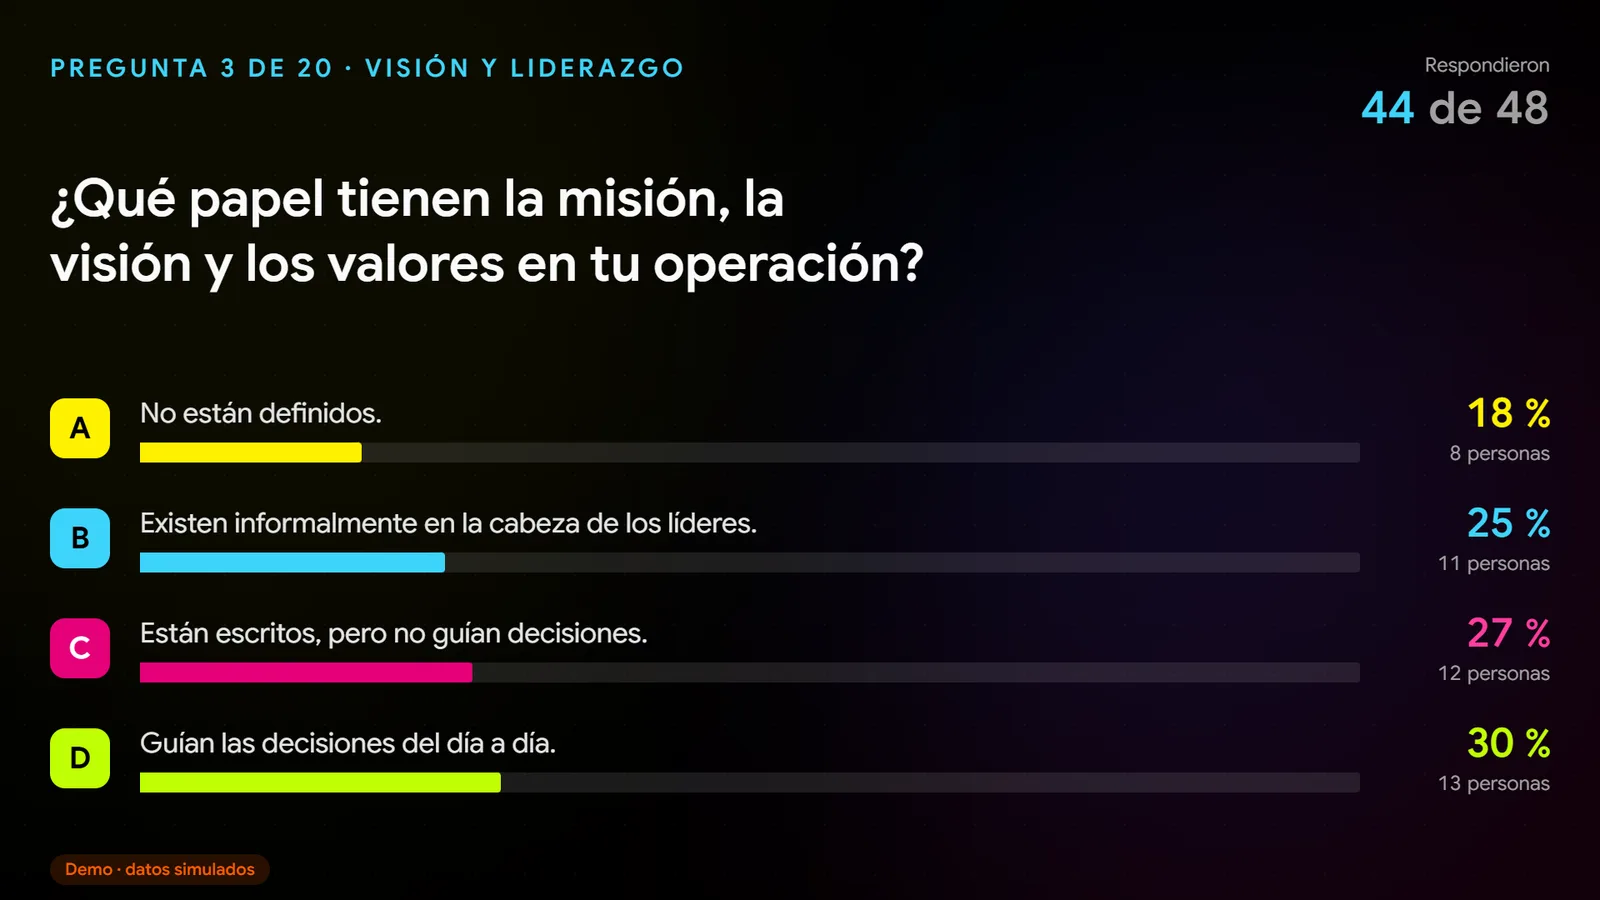
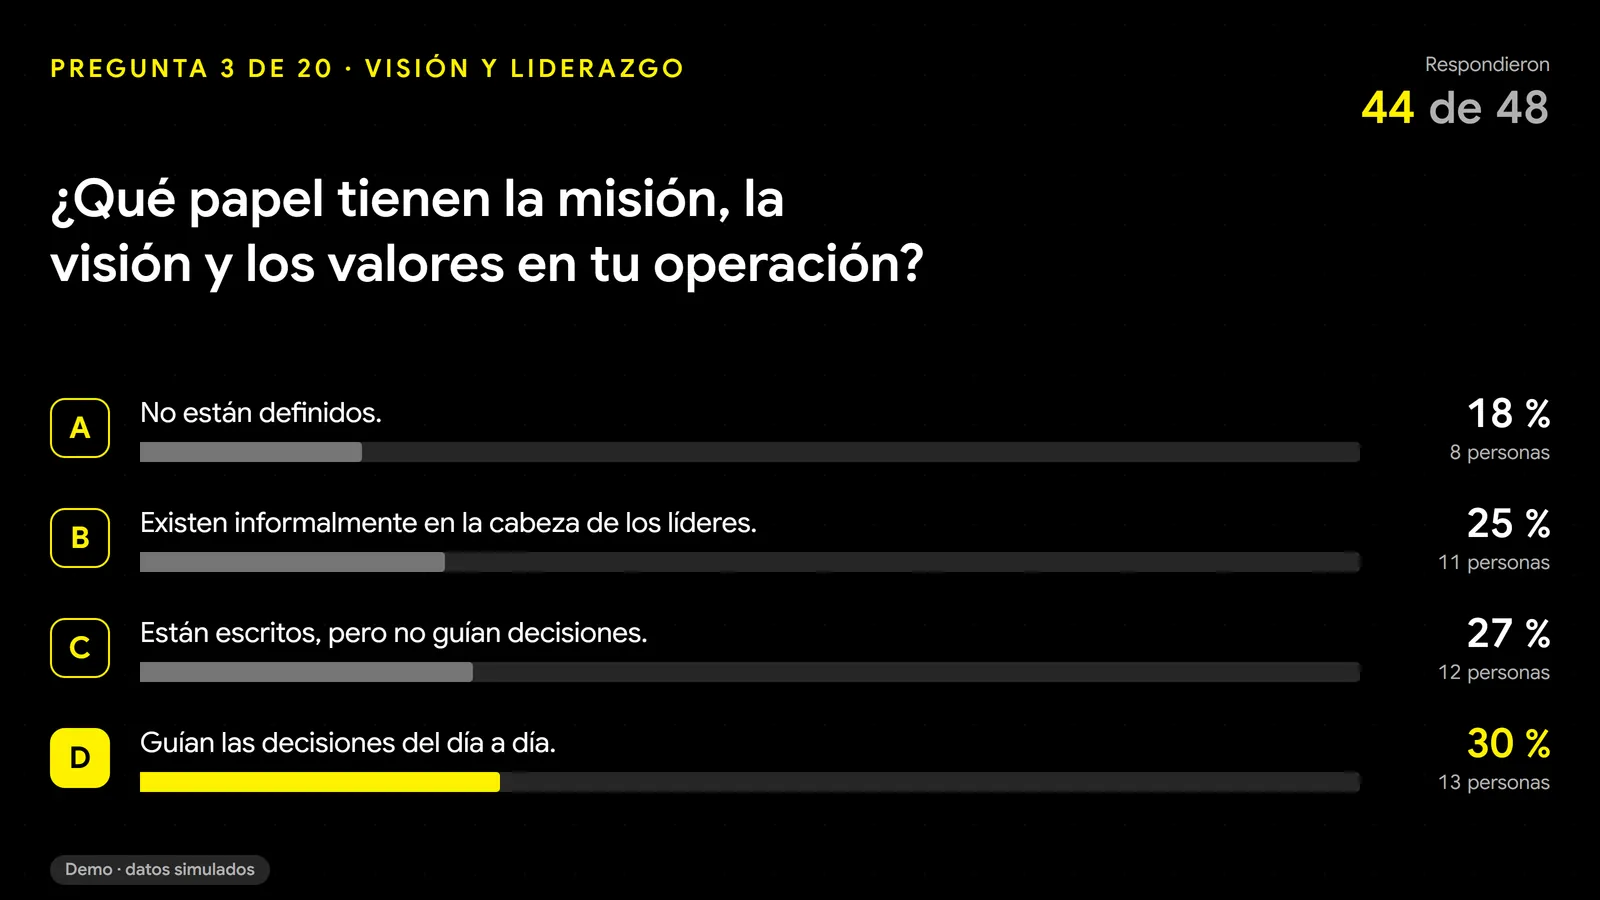
feat(projects): retake the Appolo workshop screenshots in its current design
The four captures showed the workshop's earlier palette; the app now
uses Appolo's yellow and black. They were retaken from a frontend-only
build with the demo's sample data and mocked API answers, and keep their
file names because Google has already crawled those URLs. Two new views
join them: a section's closing average and the host panel on a phone.
The live question goes first: it becomes the card image, and its large
question and bars still read at card size.

diff --git a/src/content/projects/workshop-web.ts b/src/content/projects/workshop-web.ts
@@ -100,24 +100,24 @@ export const workshopWeb: Project = {
   integrations: ["Supabase Realtime", "n8n", "WhatsApp"],
   images: [
     {
-      src: "/images/projects/workshop-web/room-results.webp",
+      src: "/images/projects/workshop-web/live-question.webp",
       alt: {
-        es: "Resultados de la sala en la pantalla proyectada con datos de ejemplo: promedio por sección, etapa de las empresas, principales cuellos de botella, agenda predominante, porcentajes de leads en chats y de empresas listas para automatizar, y nube de palabras.",
-        en: "Room results on the projected screen with sample data: average per section, company stage, top bottlenecks, most common scheduling method, the share with leads in chats and the share ready to automate, and a word cloud.",
-        pt: "Resultados da sala na tela projetada com dados de exemplo: média por seção, estágio das empresas, principais gargalos, agenda predominante, percentuais de leads em chats e de empresas prontas para automatizar, e nuvem de palavras.",
-        fr: "Résultats de la salle sur l'écran projeté avec des données d'exemple : moyenne par section, stade des entreprises, principaux goulots d'étranglement, agenda dominant, pourcentages de leads dans les chats et d'entreprises prêtes à automatiser, et nuage de mots.",
+        es: "Pregunta en vivo en la pantalla proyectada con datos de ejemplo: el texto de la pregunta, cuatro opciones con barras, porcentaje y número de personas, la opción más elegida resaltada y el contador de quienes ya respondieron.",
+        en: "Live question on the projected screen with sample data: the question text, four options with bars, percentages and head counts, the most chosen option highlighted, and a counter of who has already answered.",
+        pt: "Pergunta ao vivo na tela projetada com dados de exemplo: o texto da pergunta, quatro opções com barras, percentual e número de pessoas, a opção mais escolhida em destaque e o contador de quem já respondeu.",
+        fr: "Question en direct sur l'écran projeté avec des données d'exemple : l'énoncé de la question, quatre options avec barres, pourcentage et nombre de personnes, l'option la plus choisie mise en avant et le compteur de ceux qui ont déjà répondu.",
       },
       width: 1600,
       height: 900,
       viewport: "desktop",
     },
     {
-      src: "/images/projects/workshop-web/live-question.webp",
+      src: "/images/projects/workshop-web/room-results.webp",
       alt: {
-        es: "Pregunta en vivo en la pantalla proyectada con datos de ejemplo: el texto de la pregunta, cuatro opciones con barras, porcentaje y número de personas, y el contador de quienes ya respondieron.",
-        en: "Live question on the projected screen with sample data: the question text, four options with bars, percentages and head counts, and a counter of who has already answered.",
-        pt: "Pergunta ao vivo na tela projetada com dados de exemplo: o texto da pergunta, quatro opções com barras, percentual e número de pessoas, e o contador de quem já respondeu.",
-        fr: "Question en direct sur l'écran projeté avec des données d'exemple : l'énoncé de la question, quatre options avec barres, pourcentage et nombre de personnes, et le compteur de ceux qui ont déjà répondu.",
+        es: "Resultados de la sala en la pantalla proyectada con datos de ejemplo: promedio por sección, etapa de las empresas, principales cuellos de botella, agenda predominante, porcentajes de leads en chats y de empresas listas para automatizar, y nube de palabras.",
+        en: "Room results on the projected screen with sample data: average per section, company stage, top bottlenecks, most common scheduling method, the share with leads in chats and the share ready to automate, and a word cloud.",
+        pt: "Resultados da sala na tela projetada com dados de exemplo: média por seção, estágio das empresas, principais gargalos, agenda predominante, percentuais de leads em chats e de empresas prontas para automatizar, e nuvem de palavras.",
+        fr: "Résultats de la salle sur l'écran projeté avec des données d'exemple : moyenne par section, stade des entreprises, principaux goulots d'étranglement, agenda dominant, pourcentages de leads dans les chats et d'entreprises prêtes à automatiser, et nuage de mots.",
       },
       width: 1600,
       height: 900,
@@ -136,6 +136,18 @@ export const workshopWeb: Project = {
       viewport: "desktop",
     },
     {
+      src: "/images/projects/workshop-web/section-close-average.webp",
+      alt: {
+        es: "Cierre de sección en la pantalla proyectada con datos de ejemplo: «Sección completada · Visión y liderazgo», el promedio de la sala en la escala del 1 al 5 con su barra, el número de respuestas y la pregunta que sigue.",
+        en: "Section close on the projected screen with sample data: “Section completed · Vision and leadership”, the room's average on the 1-to-5 scale with its bar, the number of answers, and the next question.",
+        pt: "Encerramento de seção na tela projetada com dados de exemplo: “Seção concluída · Visão e liderança”, a média da sala na escala de 1 a 5 com a sua barra, o número de respostas e a próxima pergunta.",
+        fr: "Clôture de section sur l'écran projeté avec des données d'exemple : « Section terminée · Vision et leadership », la moyenne de la salle sur l'échelle de 1 à 5 avec sa barre, le nombre de réponses et la question suivante.",
+      },
+      width: 1600,
+      height: 900,
+      viewport: "desktop",
+    },
+    {
       src: "/images/projects/workshop-web/closing-word-cloud.webp",
       alt: {
         es: "Pregunta de cierre en la pantalla proyectada con datos de ejemplo: «En una palabra, ¿qué necesita tu empresa para crecer?» y una nube de palabras con las respuestas de la sala.",
@@ -146,6 +158,18 @@ export const workshopWeb: Project = {
       width: 1600,
       height: 900,
       viewport: "desktop",
+    },
+    {
+      src: "/images/projects/workshop-web/host-panel.webp",
+      alt: {
+        es: "Panel del host en un celular con datos de ejemplo: la pregunta activa con cuántos respondieron, cuántos van a su ritmo, el indicador «En vivo», las acciones para reenviar, enviar resultados y cerrar la sesión, y el botón «Siguiente».",
+        en: "Host panel on a phone with sample data: the active question with how many have answered, how many are going at their own pace, the “Live” indicator, the actions to resend, send results and close the session, and the “Next” button.",
+        pt: "Painel do host em um celular com dados de exemplo: a pergunta ativa com quantos já responderam, quantos seguem no próprio ritmo, o indicador “Ao vivo”, as ações para reenviar, enviar os resultados e encerrar a sessão, e o botão “Próxima”.",
+        fr: "Panneau de l'animateur sur un téléphone avec des données d'exemple : la question en cours avec le nombre de réponses, les participants qui avancent à leur rythme, l'indicateur « En direct », les actions pour renvoyer, envoyer les résultats et clôturer la session, et le bouton « Suivant ».",
+      },
+      width: 780,
+      height: 1688,
+      viewport: "mobile",
     },
   ],
   links: [],
